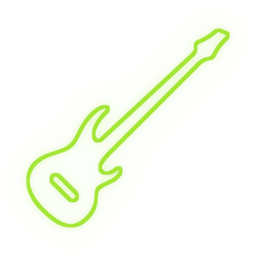
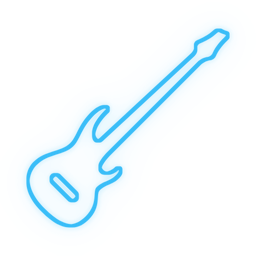
Actualizar paleta de colores y mejorar estilos de botones; agregar nuevos íconos de instrumentos.

Changed region(s): [[0.0938, 0.0938, 0.9062, 0.9062], [0.1875, 0.6562, 0.3125, 0.8125]]

diff --git a/index.html b/index.html
@@ -14,7 +14,7 @@
 <header class="page-head">
   <div class="eyebrow"><span class="dot"></span>SmartTuner · Sistema de diseño</div>
   <h1>Mockup interactivo de la app</h1>
-  <p>Pantallas, visor, arco de luces e iconos construidos con los elementos del paquete <em>Visor, arco e iconos</em> y el frontend Compose de SmartTuner. Toca los controles del teléfono; el panel de la derecha hace de micrófono. El botón de sol/luna alterna los dos modos: neón lima sobre tinta y papel crema con tinta marrón.</p>
+  <p>Pantallas, visor, arco de luces e iconos construidos con los elementos del paquete <em>Visor, arco e iconos</em> y el frontend Compose de SmartTuner. Toca los controles del teléfono; el panel de la derecha hace de micrófono. El botón de sol/luna alterna los dos modos: neón celeste sobre tinta y papel crema con tinta marrón.</p>
   <div class="head-actions">
     <!-- /releases/latest/download/ siempre sirve la última versión: publicar otra no obliga a tocar esta página. -->
     <a class="download" href="https://github.com/Andres-Maya/SmartTuner/releases/latest/download/SmartTuner.apk">
@@ -55,10 +55,11 @@
                   <div class="app-title">SmartTuner</div>
                   <div class="app-sub">Afinador cromático</div>
                 </div>
-                <!-- Ocupa justo el hueco de un selector de dos segmentos, para no cortar el nombre de la app. -->
-                <button class="btn-primary touch" id="identifyBtn" aria-label="Identificar instrumento"><span>Identificar</span></button>
                 <button class="icon-circle" data-toggle-theme aria-label="Cambiar al modo claro"><svg class="mode-icon" width="20" height="20" viewBox="0 0 20 20" aria-hidden="true"></svg></button>
               </div>
+
+              <!-- Entre el título y el afinador, alineado con el logo y del ancho de su texto. -->
+              <button class="btn-primary touch identify" id="identifyBtn"><span>✦&ensp;Identificar instrumento</span></button>
 
               <div class="weight"></div>
               <div class="visor" data-visor="chromatic"></div>
@@ -165,7 +166,7 @@
     </div>
 
     <ol class="sim-flow">
-      <li>Pulsa <b>Identificar</b>, arriba: aparece la lista de instrumentos y sus afinaciones.</li>
+      <li>Pulsa <b>Identificar instrumento</b>, bajo el título: aparece la lista de instrumentos y sus afinaciones.</li>
       <li>Elige instrumento y tipo, y pulsa <b>Aceptar</b>.</li>
       <li>Toca una tarjeta de cuerda para oír su referencia y afínala con el simulador.</li>
       <li><kbd>Esc</kbd> hace de botón Atrás de Android.</li>
@@ -179,7 +180,7 @@
 
   <div class="modes-grid">
     <article class="mode-card">
-      <header><span class="mode-dot dark"></span><h3>Oscuro · neón lima sobre tinta</h3></header>
+      <header><span class="mode-dot dark"></span><h3>Oscuro · neón celeste sobre tinta</h3></header>
       <div class="tokens" data-tokens="dark"></div>
     </article>
     <article class="mode-card">
@@ -205,7 +206,7 @@
         <li><b>Significado del color:</b> afinado / cerca / lejos siguen siendo verde, ámbar y coral, pero en claro bajan de tono (<code>#1F7043</code>, <code>#8E6110</code>, <code>#B23A32</code>) para pasar de 4.5:1 de contraste sobre el papel.</li>
         <li><b>Umbrales:</b> ±5 ¢ afinado, degradado hasta 20 ¢ y de ahí a 50 ¢, idénticos en ambos modos.</li>
         <li><b>Espaciado, formas y tamaños:</b> los mismos tokens; solo cambian colores y qué se dibuja.</li>
-        <li><b>Una pantalla, una acción:</b> en ambos modos el afinador muestra visor, lecturas y estado, y nada más. <b>Identificar</b> va en la barra superior y el selector ♯/♭, abajo en el centro; en la afinación por instrumento el selector no aparece.</li>
+        <li><b>Una pantalla, una acción:</b> en ambos modos el afinador muestra visor, lecturas y estado, y nada más. <b>Identificar instrumento</b> va bajo el título, a la izquierda, y el selector ♯/♭, abajo en el centro; en la afinación por instrumento el selector no aparece.</li>
         <li><b>Tipo de instrumento:</b> las variantes (4, 5 o 6 cuerdas…) van como fichas bajo la cabecera, visibles sin abrir ningún menú.</li>
         <li><b>Arranque:</b> la app sigue al modo del sistema hasta que alguien toca el botón; a partir de ahí manda esa elección.</li>
       </ul>

diff --git a/app.js b/app.js
@@ -95,10 +95,10 @@
   const mixRgb = (x, y, t) => ({ r: x.r + (y.r - x.r) * t, g: x.g + (y.g - x.g) * t, b: x.b + (y.b - x.b) * t, a: x.a + (y.a - x.a) * t });
 
   const PALETTE = {
-    // Modo oscuro: tinta azulada y el verde lima del logo.
+    // Modo oscuro: tinta azulada y el celeste del logo.
     ink950: hex('#05070F'), ink900: hex('#090D1C'), ink800: hex('#131A33'), ink700: hex('#1C2447'),
     mist50: hex('#EDEFF7'), mist400: hex('#8A93B2'),
-    lime400: hex('#A3E635'), spring400: hex('#4ADE80'),
+    sky400: hex('#38BDF8'), cyan400: hex('#22D3EE'),
     mint400: hex('#3DDC97'), amber300: hex('#FFC857'), coral400: hex('#FF6B6B'),
     // Modo claro: papel crema y madera.
     sand50: hex('#FAF9F4'), sand100: hex('#F1F0EB'), sand200: hex('#E9E6DC'), sand300: hex('#DDD8C9'),
@@ -114,7 +114,7 @@
       background: PALETTE.ink900, backgroundDeep: PALETTE.ink950,
       surface: PALETTE.ink800, surfaceHigh: PALETTE.ink700,
       textPrimary: PALETTE.mist50, textMuted: PALETTE.mist400,
-      accent: PALETTE.lime400, accentAlt: PALETTE.spring400, onAccent: PALETTE.ink950,
+      accent: PALETTE.sky400, accentAlt: PALETTE.cyan400, onAccent: PALETTE.ink950,
       inTune: PALETTE.mint400, nearlyInTune: PALETTE.amber300, outOfTune: PALETTE.coral400,
       track: alpha(PALETTE.white, 0.10), tick: alpha(PALETTE.white, 0.30), staffLine: alpha(PALETTE.white, 0.40),
       display: PALETTE.ink950, displayFrame: alpha(PALETTE.white, 0.07),
@@ -906,7 +906,7 @@
   }
 
   // ================================================================= hojas modales
-  const neonSrc = (icon) => `assets/neon/${icon}_lime.png`;
+  const neonSrc = (icon) => `assets/neon/${icon}.png`;
 
   /**
    * El instrumento en grande (InstrumentGlyph.kt): tubo de neón en el modo oscuro y el
@@ -1074,7 +1074,7 @@
     root.setProperty('--display', toHex(c.display));
     root.setProperty('--display-frame', css(c.displayFrame));
     // El logo es el neón recortado en círculo en oscuro y el mismo dibujo a trazo en claro.
-    $$('[data-logo]').forEach((img) => { img.src = isDark() ? 'assets/logo/logo_lime.png' : 'assets/logo/logo_line.png'; });
+    $$('[data-logo]').forEach((img) => { img.src = isDark() ? 'assets/logo/logo_neon.png' : 'assets/logo/logo_line.png'; });
     if (S.instrument) el.instAvatar.innerHTML = instrumentGlyph(S.instrument.icon);
     drawModeIcons();
     dials.chromatic.color = null;

diff --git a/styles.css b/styles.css
@@ -4,8 +4,8 @@
 
 :root {
   /* Valores del modo oscuro (DarkTunerColors). app.js reescribe estos tokens al cambiar de modo. */
-  --accent: #A3E635;
-  --accent-alt: #4ADE80;
+  --accent: #38BDF8;
+  --accent-alt: #22D3EE;
   --on-accent: #05070F;
   --bg: #090D1C;
   --bg-deep: #05070F;
@@ -222,8 +222,8 @@ button:focus-visible { outline: 2px solid var(--accent); outline-offset: 2px; }
   color: var(--on-accent); font-size: 16px; font-weight: 600; white-space: nowrap;
 }
 .btn-primary.lg { height: 52px; }
-/* En la barra superior ocupa lo que un selector de dos segmentos: 2 × 44 + 2 × 4. */
-.top-bar .btn-primary { width: 96px; flex: none; }
+/* Suelto bajo el título: rectángulo de esquinas redondeadas (chip, 12), del ancho de su texto. */
+.btn-primary.identify { margin-top: 16px; width: auto; align-self: flex-start; border-radius: 12px; }
 
 /* ---------------------------------------------------------------- cabecera de instrumento */
 .inst-header { width: 100%; display: flex; align-items: center; }
@@ -426,7 +426,7 @@ kbd { font-family: var(--mono); font-size: 11px; padding: 1px 6px; border-radius
 .mode-card li { margin-bottom: 8px; }
 .mode-card li b { color: var(--text); font-weight: 600; }
 .mode-dot { width: 14px; height: 14px; border-radius: 50%; flex: none; }
-.mode-dot.dark { background: linear-gradient(135deg, #A3E635, #4ADE80); box-shadow: 0 0 0 2px #090D1C; }
+.mode-dot.dark { background: linear-gradient(135deg, #38BDF8, #22D3EE); box-shadow: 0 0 0 2px #090D1C; }
 .mode-dot.light { background: linear-gradient(135deg, #7A5A24, #A8823C); box-shadow: 0 0 0 2px #F1F0EB; }
 .tokens { display: grid; grid-template-columns: repeat(2, 1fr); gap: 8px 16px; }
 .token { display: flex; align-items: center; gap: 8px; font-size: 12px; }
